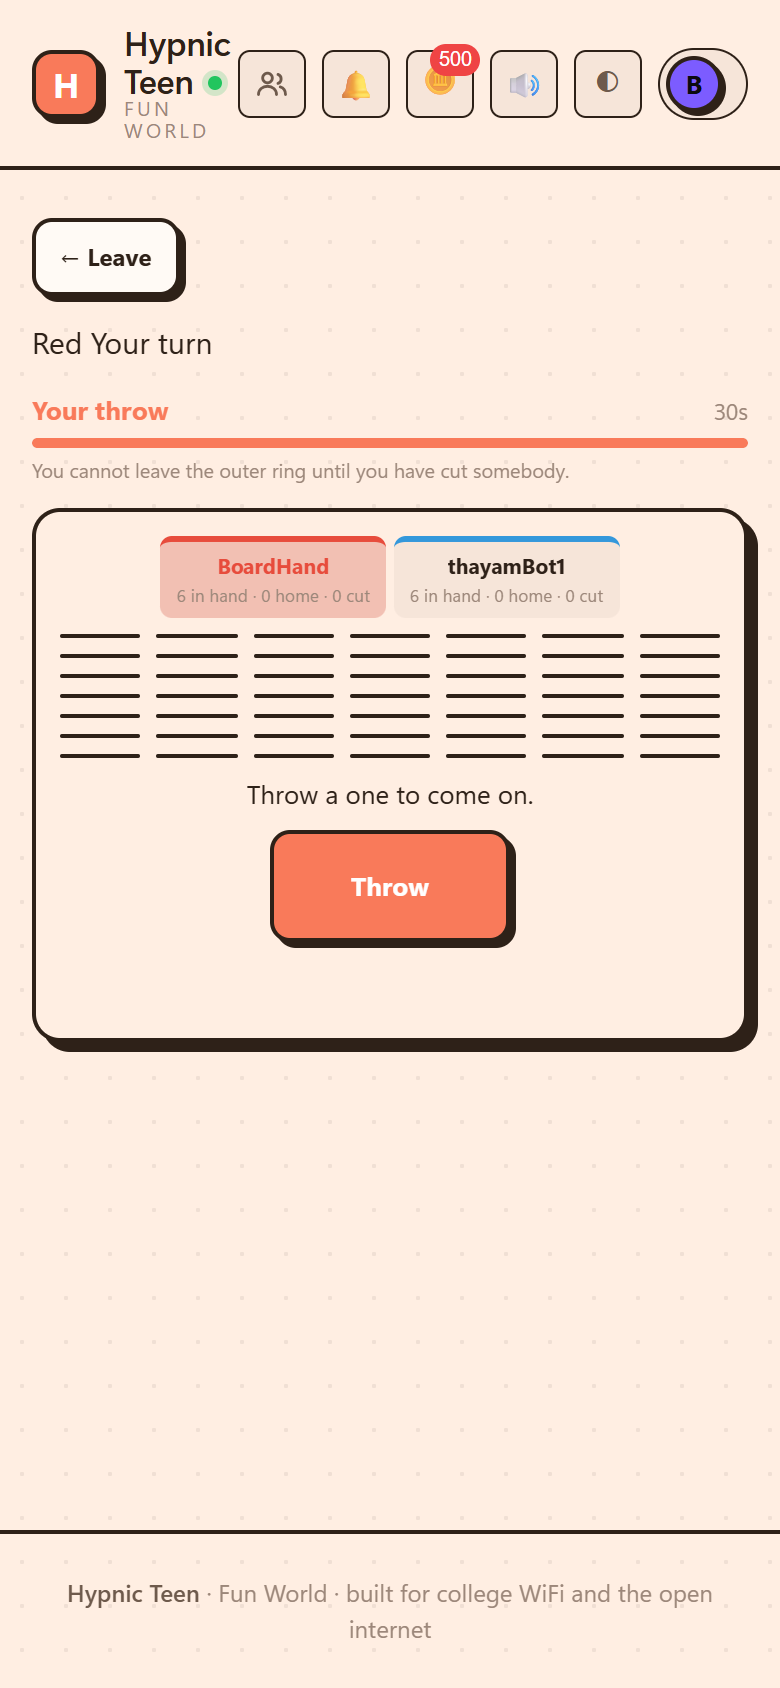
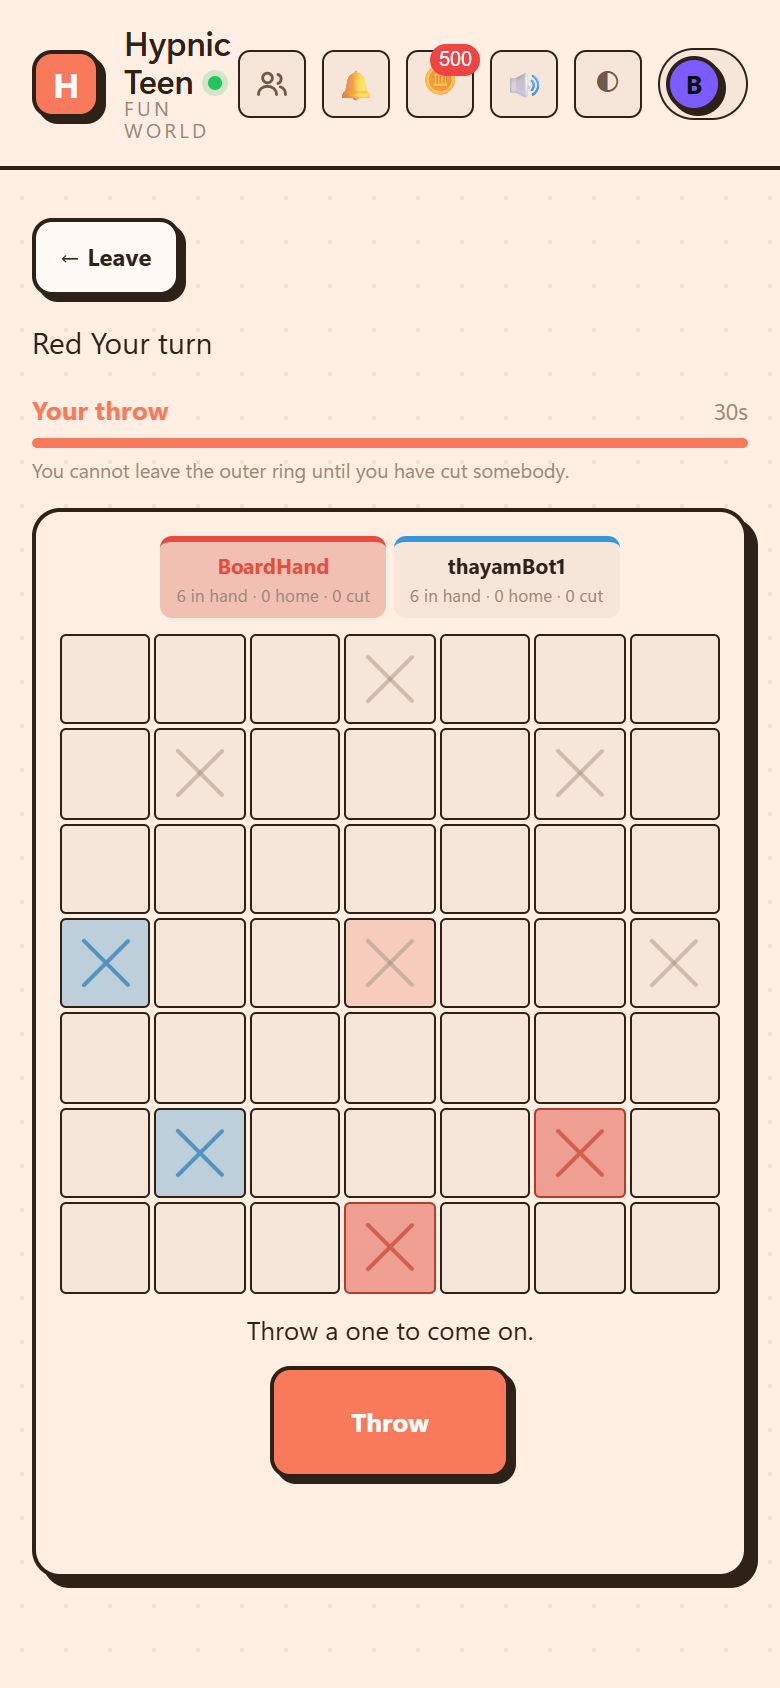
The Thayam board had never been a board
Forty-nine cells, two pixels tall. A row of flat dashes where a
seven-by-seven grid should be. It had shipped like that, and every check
in the browser suite passed the whole time, because every check counted
DOM nodes: forty-nine cells present, forty-nine cells correct.

The cause was a CSS rule written as an absence. Mahjong's layout was

  .bd-board:not(.is-ring):not(.is-chequer):not(.is-ladder)

which described Mahjong exactly until a game arrived that claimed no
layout class of its own. Thayam claims none, so it was swept in and had
its aspect-ratio taken away. Chain Reaction only escaped because it
happened to re-declare everything the rule took. Mahjong now says
is-mahjong and the rule names it.

So the suite now asks the question it was never asking: is the board a
board. A square-ish box, and cells big enough to put a thumb on. Counting
cells proves the DOM was built; it says nothing about whether anybody can
see a board, and the difference is a game nobody could play.

All seven boards measured, 113 checks in the browser.

Changed region(s): [[0.0308, 0.3697, 0.9846, 0.9858], [0.8923, 0.7085, 0.9231, 0.7701], [0.8923, 0.5237, 0.9231, 0.5545]]

diff --git a/public/css/site.css b/public/css/site.css
@@ -5191,8 +5191,13 @@ body.dropping::after {
 .bd-inhand.is-armed { background: var(--accent); color: var(--on-accent, #fff); }
 .bd-inhand:disabled { opacity: 0.4; }
 
-/* Mahjong: the pond, and your own tiles along the bottom. */
-.bd-board:not(.is-ring):not(.is-chequer):not(.is-ladder) { display: grid; gap: var(--sp-sm); aspect-ratio: auto; }
+/* Mahjong: the pond, and your own tiles along the bottom.
+   Written as "any board that is not one of the other three" for a while, which
+   is a description of Mahjong only until somebody adds a game — and Thayam,
+   which claims no layout class, was quietly swept into it and drawn as
+   forty-nine two-pixel dashes. Rules that say "everything else" go stale the
+   moment the else changes. */
+.bd-board.is-mahjong { display: grid; gap: var(--sp-sm); aspect-ratio: auto; }
 .bd-pond { display: flex; gap: 2px; flex-wrap: wrap; justify-content: center; min-height: 40px; }
 .bd-tile {
   display: grid;

diff --git a/public/games/_board/client.js b/public/games/_board/client.js
@@ -576,7 +576,13 @@ export default {
     function paintMahjong(s) {
       const box = $('#bdBoard');
       box.dataset.size = 'mahjong';
-      box.classList.remove('is-ring', 'is-chequer', 'is-ladder');
+      box.classList.remove('is-ring', 'is-chequer', 'is-ladder', 'is-chain');
+      // Named rather than left as the default. Mahjong's layout used to be
+      // written in CSS as "any board that is not one of the other three", which
+      // silently included Thayam — and flattened its seven-by-seven grid into
+      // forty-nine two-pixel dashes. A face that wants its own layout has to
+      // say so.
+      box.classList.add('is-mahjong');
       box.replaceChildren();
 
       const pond = document.createElement('div');
